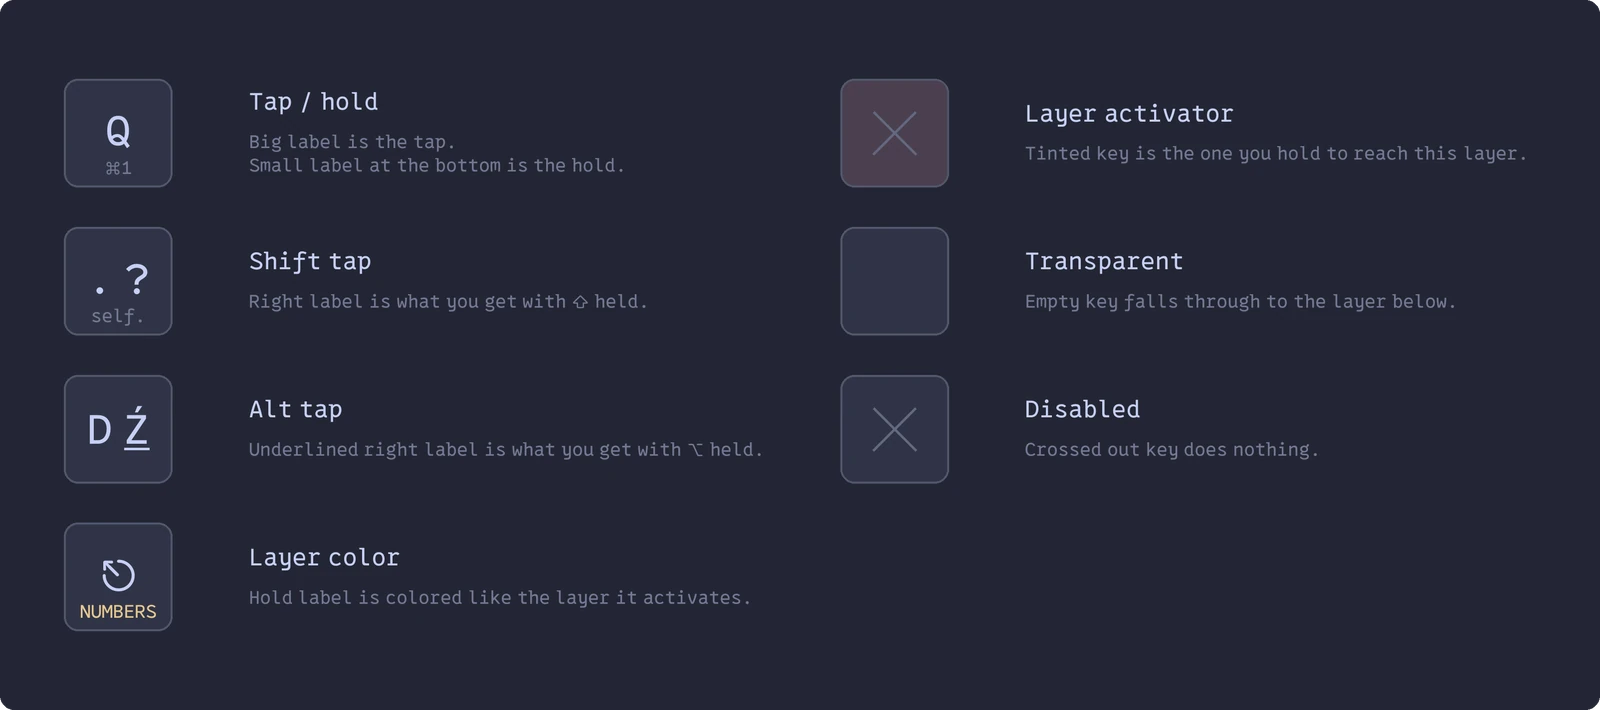
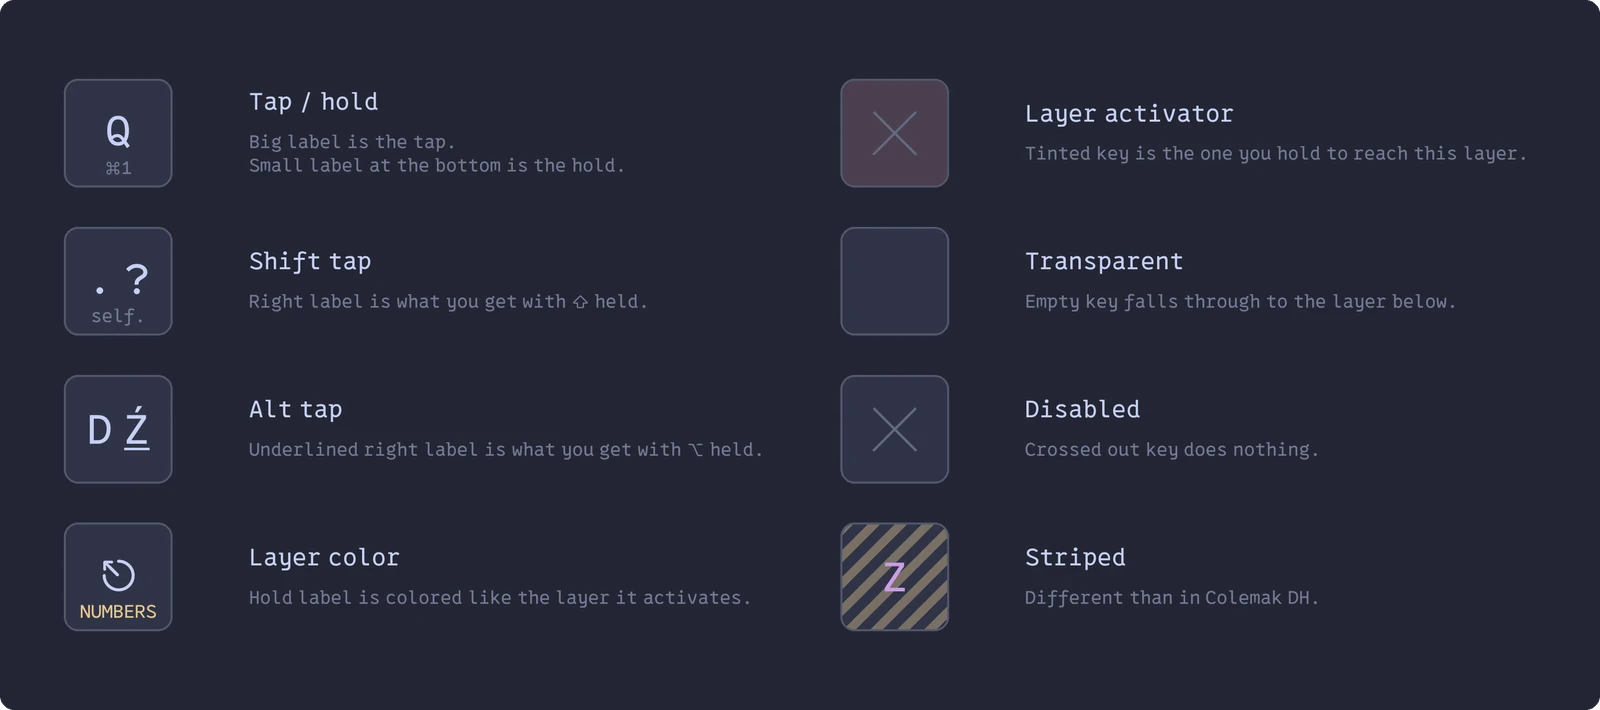
polemak

Changed region(s): [[0.5, 0.7127, 0.5938, 0.8986], [0.6562, 0.8366, 0.8125, 0.8676], [0.625, 0.7746, 0.7188, 0.8056]]

diff --git a/README.md b/README.md
@@ -52,6 +52,8 @@ Layer images are auto-updated by `scripts/render`.
 
 Colemak DH modified for Polish and Vim
 
+![](images/layers/polemak.webp)
+
 - I write in English and Polish and I use Vim
 - I started with Colemak DH (switching from QWERTY after three decades)
 - swapped `J` and `K` so they're not up side down in Vim
